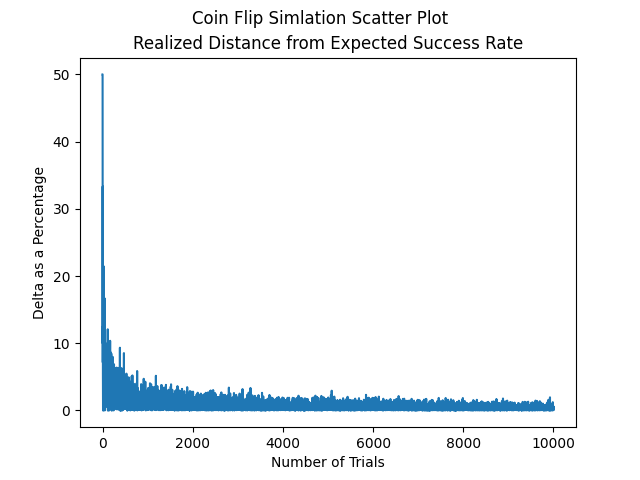
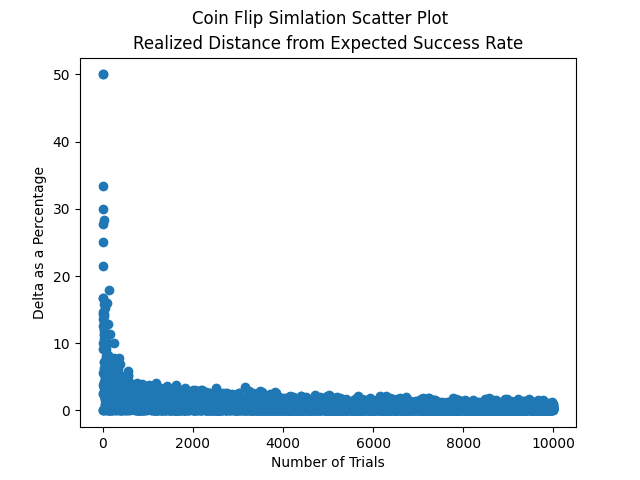
Reverted Back to a Scatterplot
I wanted to emphasize these are individual experiments

Changed region(s): [[0.1562, 0.125, 0.875, 0.875]]

diff --git a/main.py b/main.py
@@ -10,7 +10,7 @@ for i in range(0, len(trials)):
     outcome_list.append(coin_flips.trial_sequence(trials[i], success_rate))
 
 #generate outcome plot
-plt.plot(*zip(*outcome_list))
+plt.scatter(*zip(*outcome_list))
 plt.suptitle('Coin Flip Simlation Scatter Plot')
 plt.title('Realized Distance from Expected Success Rate')
 plt.xlabel('Number of Trials')
